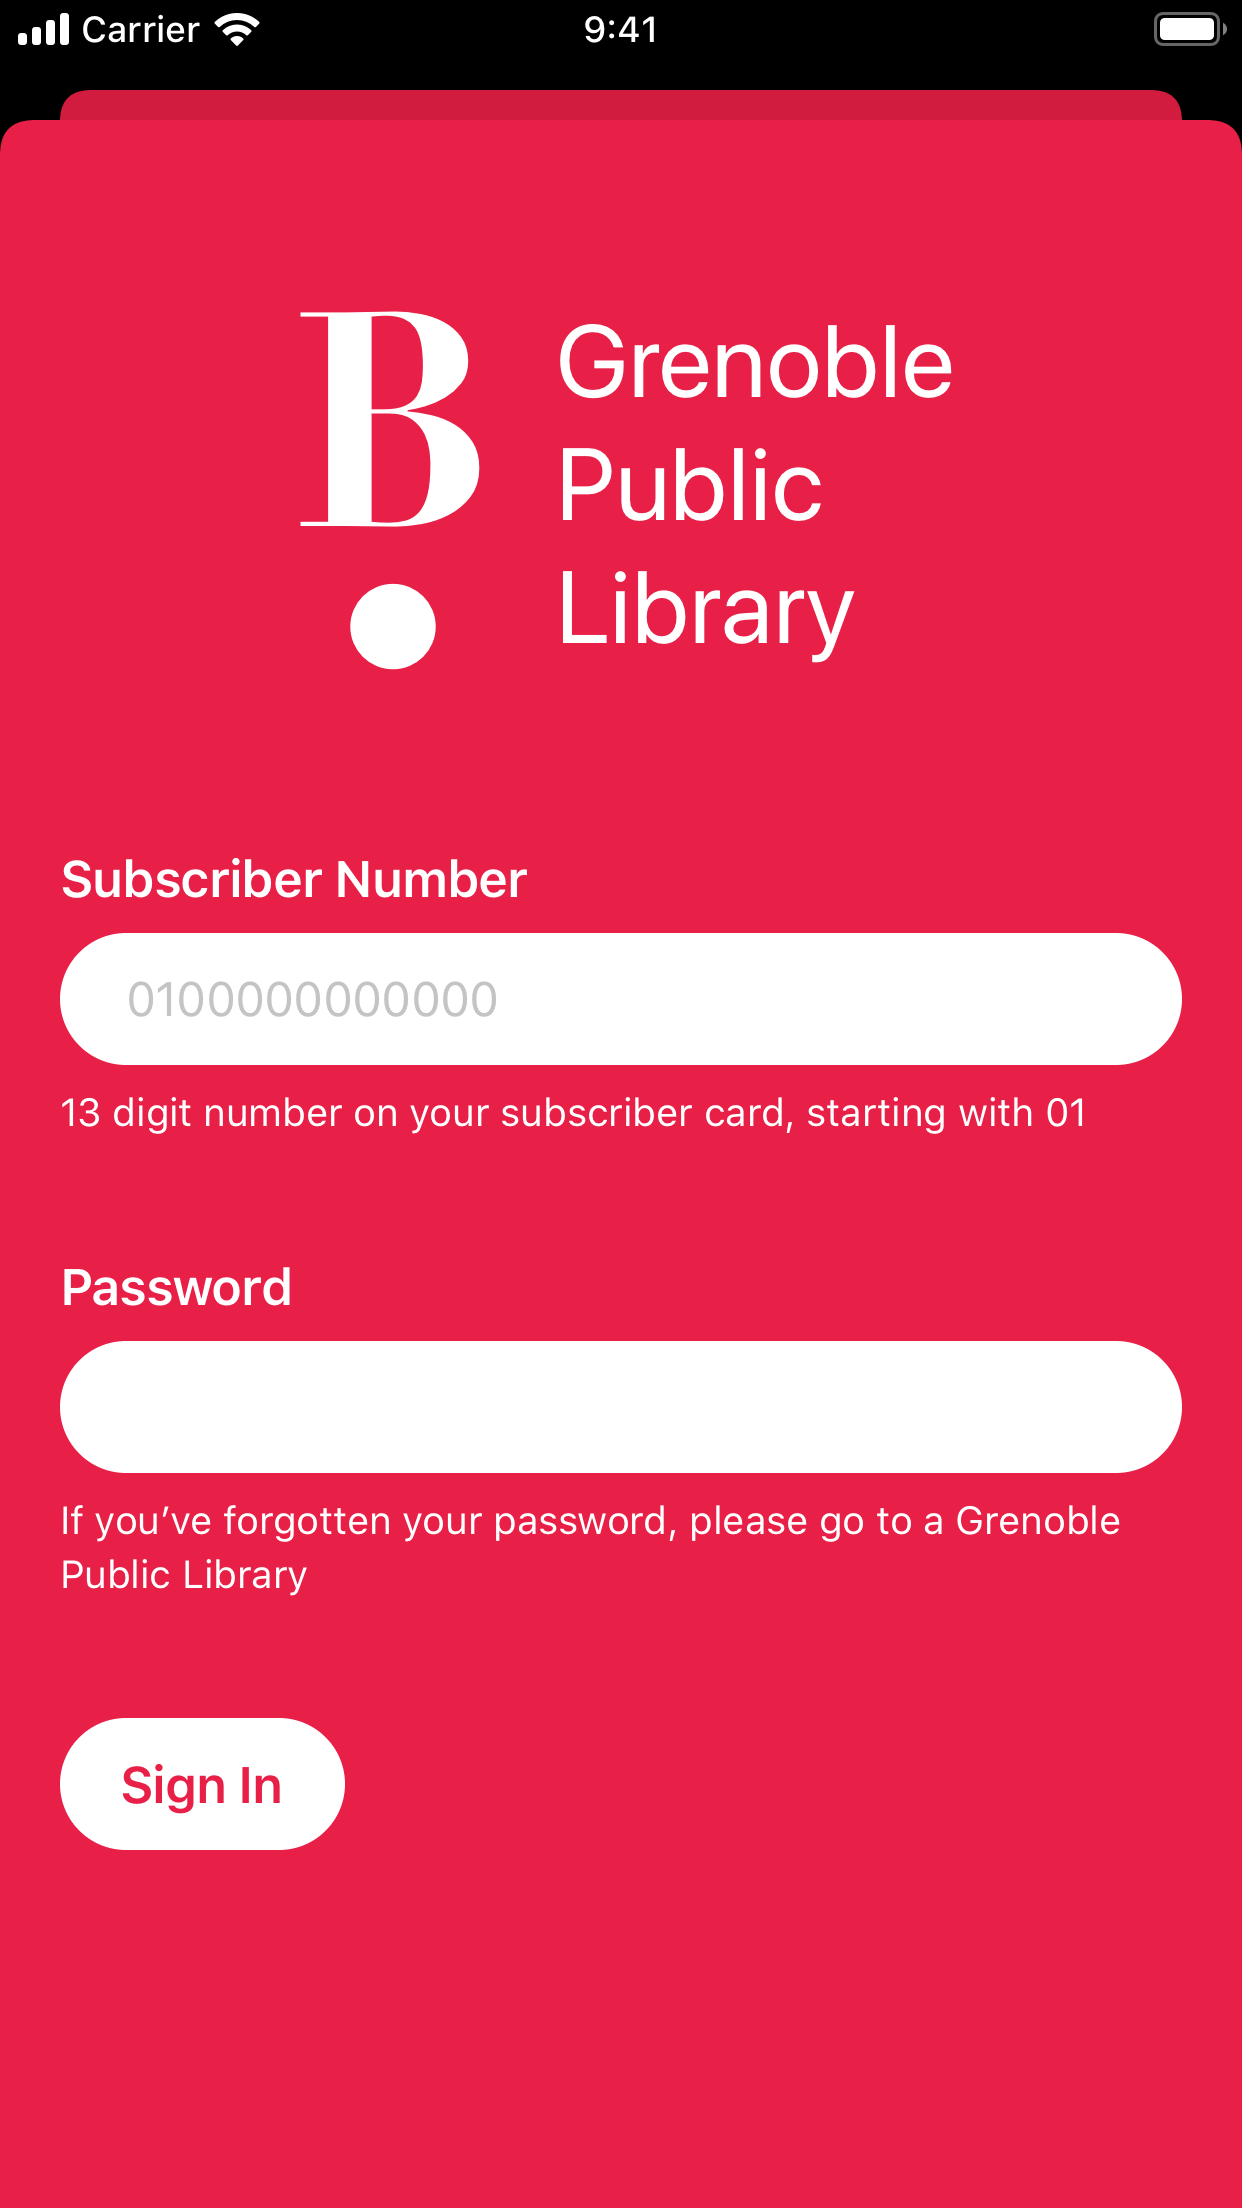
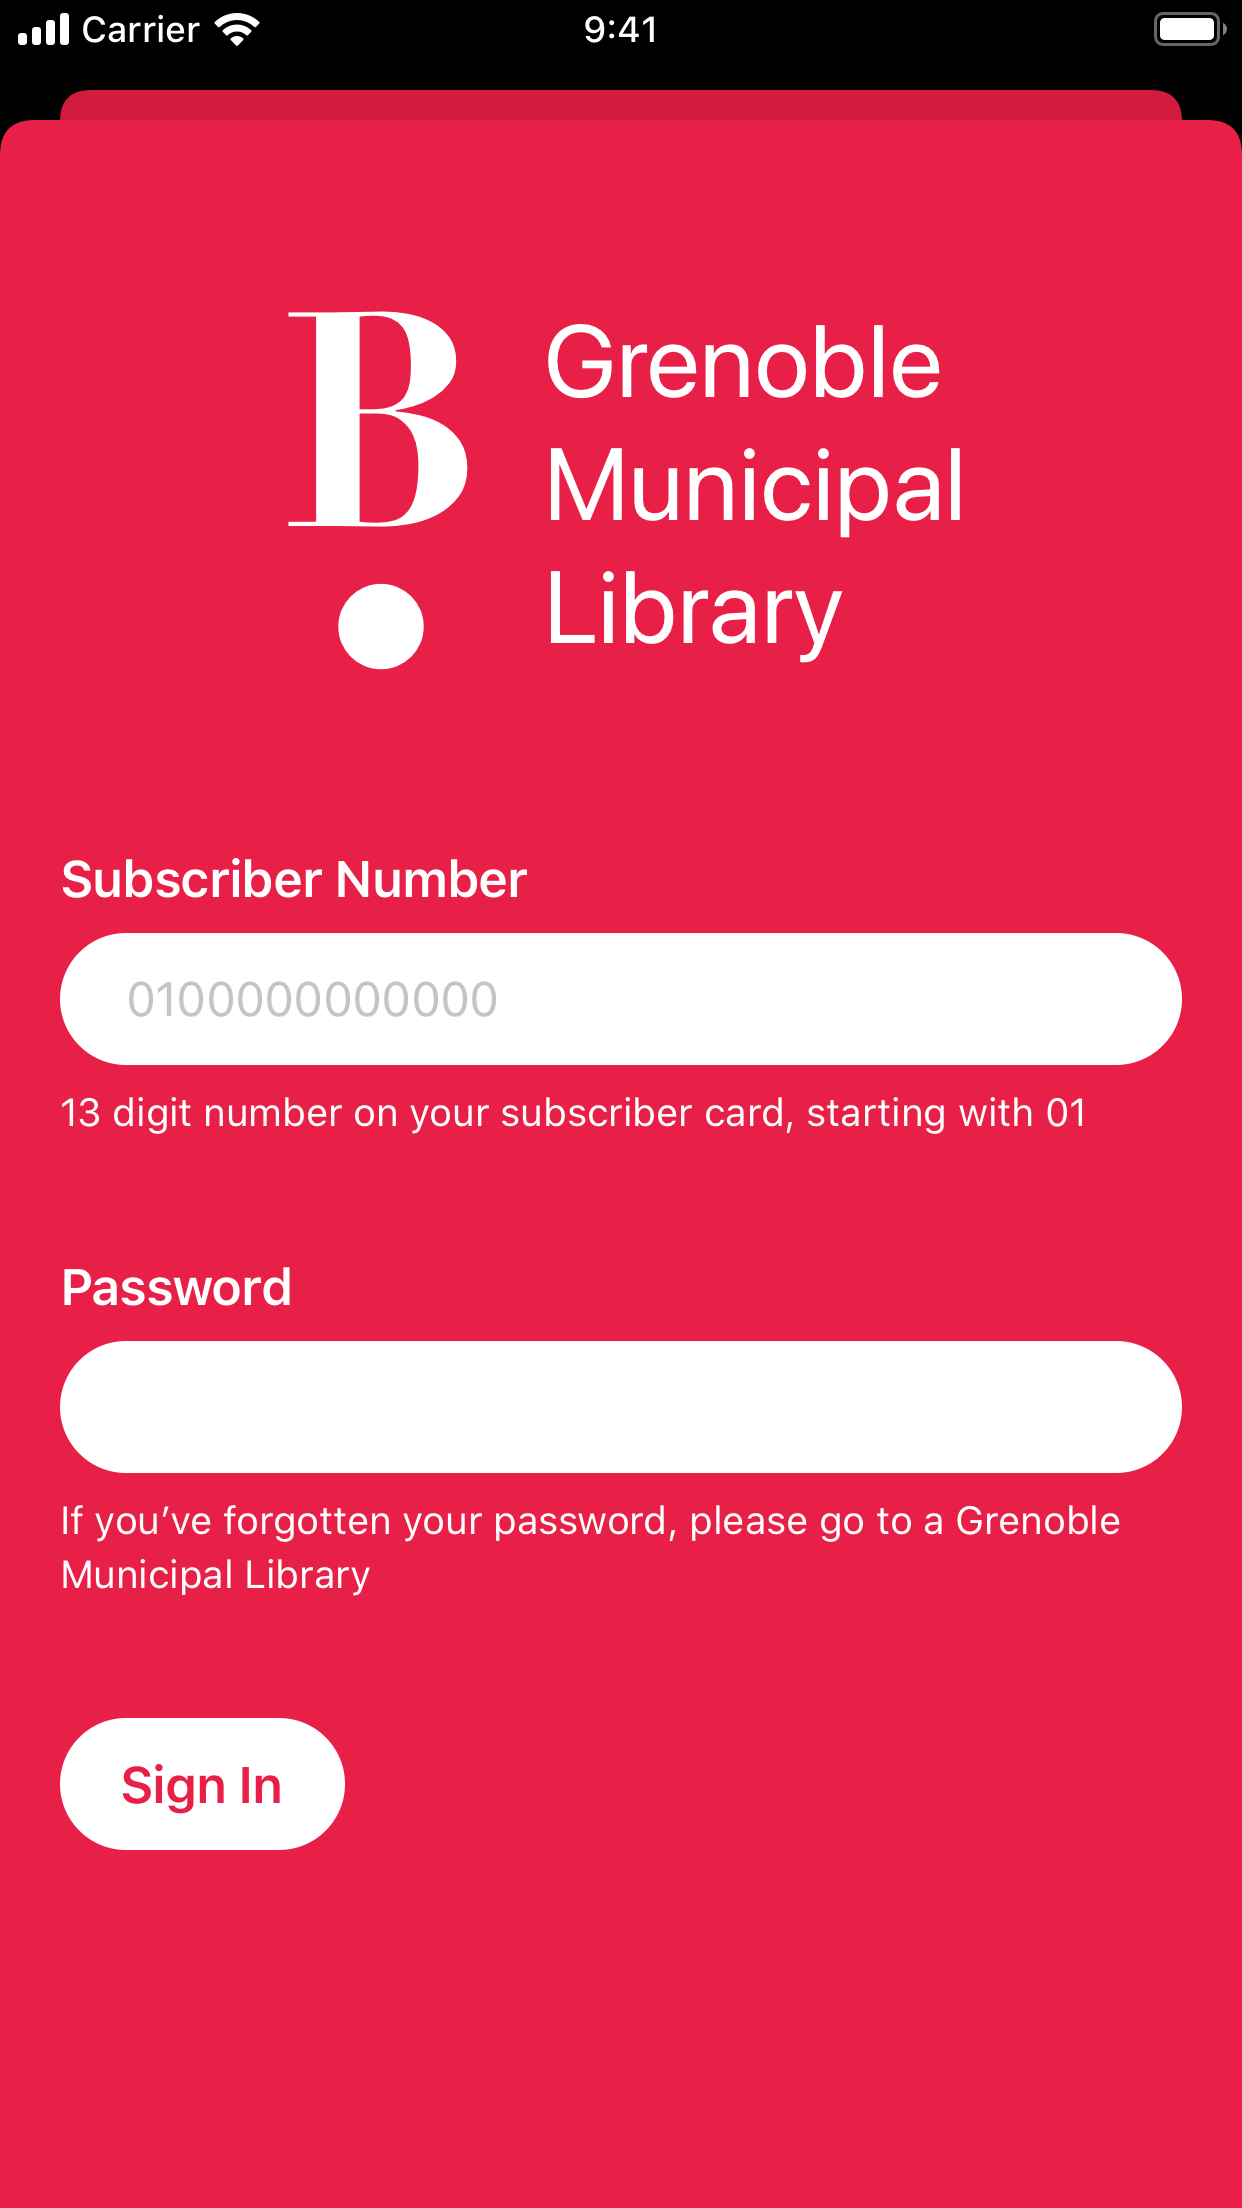
Rename public to municipal

Changed region(s): [[0.4283, 0.125, 0.7955, 0.3125], [0.2448, 0.125, 0.3977, 0.3125], [0.0612, 0.6875, 0.2754, 0.7188]]

diff --git a/README.md b/README.md
@@ -1,10 +1,10 @@
 # BM Grenoble
 
-iOS application for the Grenoble Public Library ([Bibliothèques municipales de Grenoble](https://www.bm-grenoble.fr)), displaying a list of your current loans. 
+iOS application for the Grenoble Municipal Library ([Bibliothèque municipale de Grenoble](https://www.bm-grenoble.fr)), displaying a list of your current loans. 
 
 ## How it works
 
-The Grenoble Public Library doesn’t offer a public API to check your account status and loans. This app uses a hidden web view instead, programmatically signing in with the user credentials, then extracting the relevant data by parsing the HTML pages.
+The Grenoble Municipal Library doesn’t offer a public API to check your account status and loans. This app uses a hidden web view instead, programmatically signing in with the user credentials, then extracting the relevant data by parsing the HTML pages.
 
 ## Roadmap
 
@@ -26,7 +26,7 @@ Contributions are welcome. Please fork this repo, commit your changes, then subm
 
 ## Credits
 
-This is an independent project by [Vincent Tourraine](https://www.vtourraine.net), not affiliated with the Grenoble Public Library.  
+This is an independent project by [Vincent Tourraine](https://www.vtourraine.net), not affiliated with the Grenoble Municipal Library.  
 
 ## License
 
